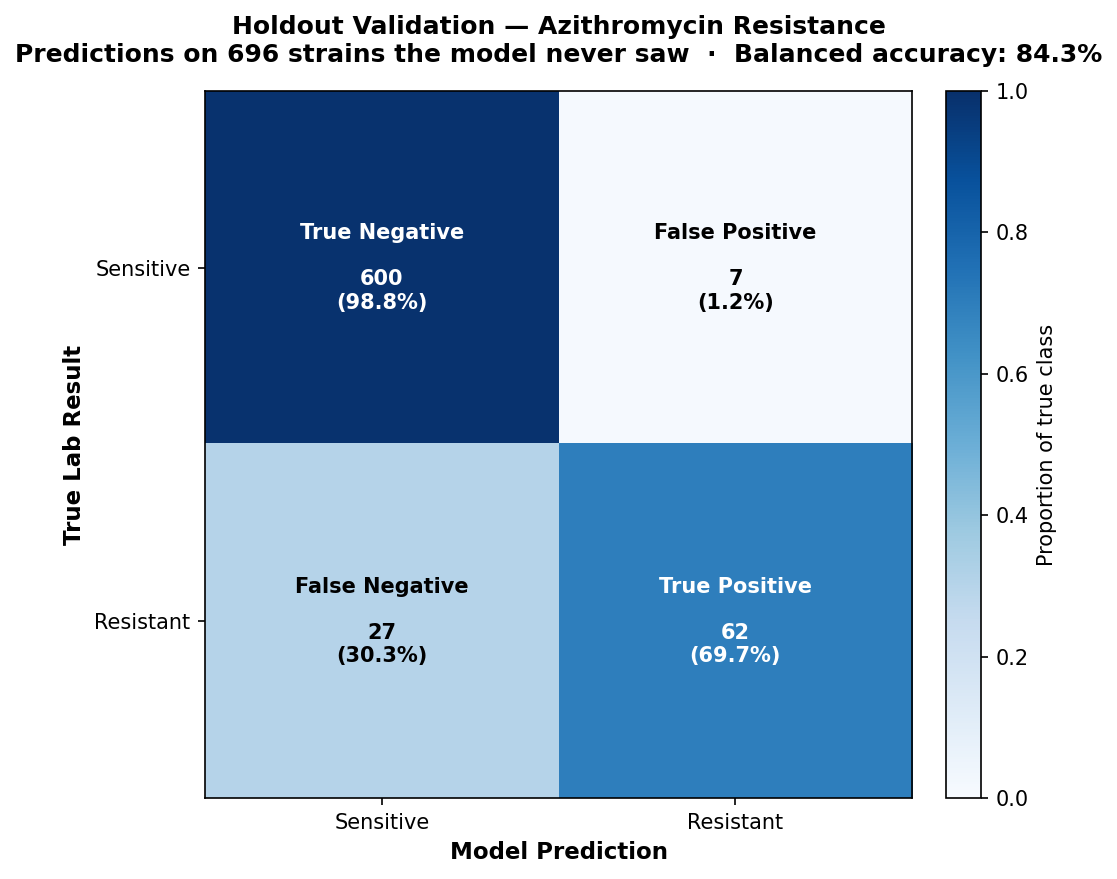
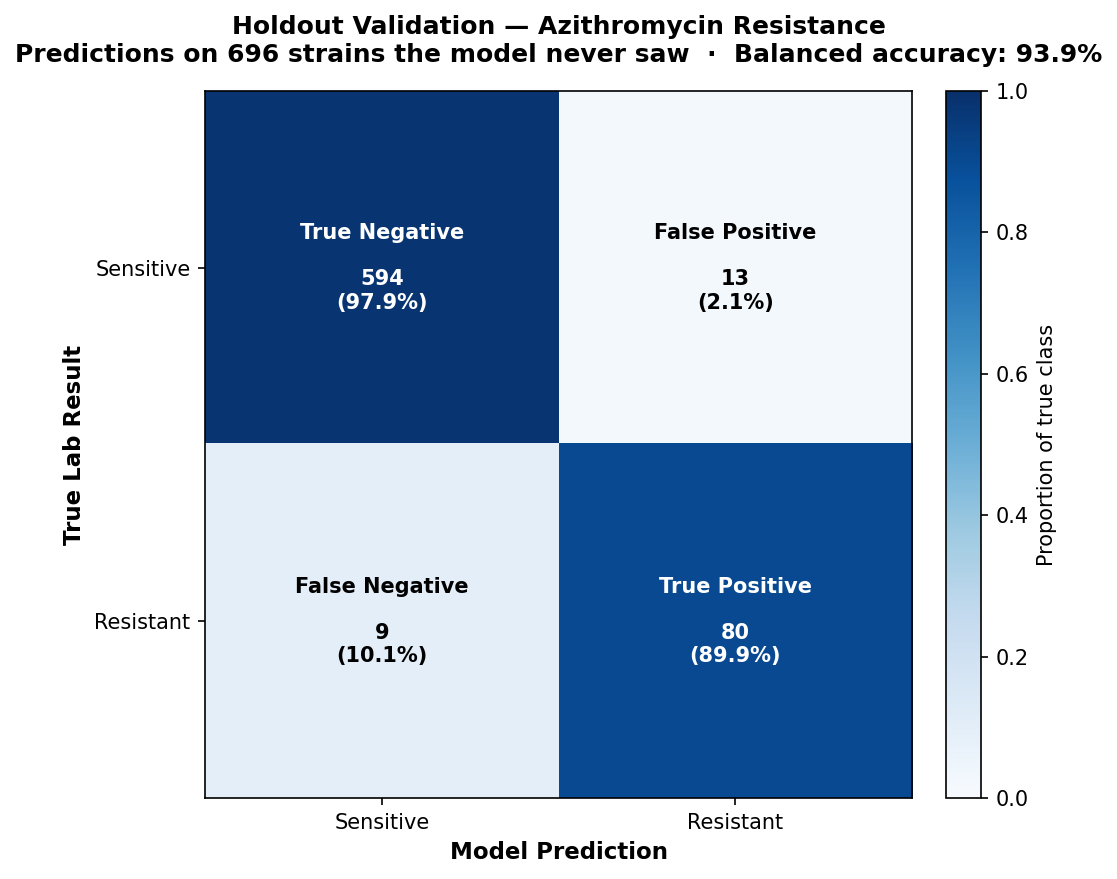
Add Apache 2.0 LICENSE; sync README with post-threshold-tuning results
Pre-public-release readiness fixes:
- Add LICENSE (Apache 2.0) — README's License section was a bare heading
  with no actual license, meaning the repo had no license at all.
- README AZM/CIP holdout numbers were stale (pre threshold-tuning fix):
  84.3%/69.7% recall -> 93.9%/89.9%. Regenerated and re-embedded both
  validation charts to match.
- Test count references updated 171 -> 179 throughout.

diff --git a/README.md b/README.md
@@ -82,20 +82,20 @@ Results trained on full datasets, evaluated with 5-fold stratified cross-validat
 
 The strongest evidence: we lock away 20% of the data, train only on the other 80%, then predict resistance for the held-out strains the model has **never seen**. This is the honest test of whether AcquireML generalises to genuinely new data.
 
-**Ciprofloxacin** — 618 unseen strains, 97.6% balanced accuracy:
+**Ciprofloxacin** — 618 unseen strains, 97.7% balanced accuracy:
 
 ![CIP Holdout Validation](docs/cip_validation.png)
 
-**Azithromycin** — 696 unseen strains, 84.3% balanced accuracy:
+**Azithromycin** — 696 unseen strains, 93.9% balanced accuracy:
 
 ![AZM Holdout Validation](docs/azm_validation.png)
 
 | Antibiotic | Unseen Strains | Balanced Accuracy | Precision | Recall | ROC-AUC |
 |---|---|---|---|---|---|
-| Ciprofloxacin (CIP) | 618 | **97.6%** | 96.9% | 97.9% | 0.996 |
-| Azithromycin (AZM) | 696 | **84.3%** | 89.9% | 69.7% | 0.979 |
+| Ciprofloxacin (CIP) | 618 | **97.7%** | 95.3% | 99.7% | 0.996 |
+| Azithromycin (AZM) | 696 | **93.9%** | 86.0% | 89.9% | 0.979 |
 
-The CIP model is near-clinical-grade on unseen data. The AZM model has high precision (when it flags a strain as resistant, it's right 90% of the time) but lower recall — it misses some resistant strains because they're rare (only 13% of samples). Improving AZM recall is an active area of work.
+The CIP model is near-clinical-grade on unseen data. The AZM model catches 90% of truly resistant strains — every model in this project is trained with a cross-validated decision threshold instead of assuming the naive 50% cutoff, which matters because resistance is rare (only 13% of AZM samples): the default cutoff was quietly under-calling the rare class.
 
 Run it yourself: `make validate` or `python -m acquireml.validate --antibiotic cip`
 
@@ -235,7 +235,7 @@ Data source: [Kaggle — Identifying Antibiotic Resistant Bacteria](https://www.
 git clone https://github.com/Gabriel-Hollenbeck22/AcquireML.git
 cd AcquireML
 pip install -e ".[dev]"
-make test   # 171 tests should pass
+make test   # 179 tests should pass
 ```
 
 ---
@@ -265,7 +265,7 @@ make explore
 # Rank DNA fragments by predictive importance — generates azm_importance.png
 make explain
 
-# Run the full test suite (171 tests)
+# Run the full test suite (179 tests)
 make test
 ```
 
@@ -310,7 +310,7 @@ acquireml/
 │   ├── recommend.py        Live recommendations for new, unlabelled strains
 │   ├── validate.py         Holdout validation on genuinely unseen strains
 │   └── demo.py             Synthetic data generator + zero-setup session
-├── tests/                  171 tests covering all modules
+├── tests/                  179 tests covering all modules
 ├── docs/                   Charts and figures (committed for README display)
 ├── data/                   Place archive.zip here (not included — see above)
 ├── Makefile                Developer shortcuts
@@ -342,3 +342,5 @@ See [CONTRIBUTING.md](CONTRIBUTING.md) for how to report bugs, add new query str
 ---
 
 ## License
+
+Apache License 2.0 — see [LICENSE](LICENSE).